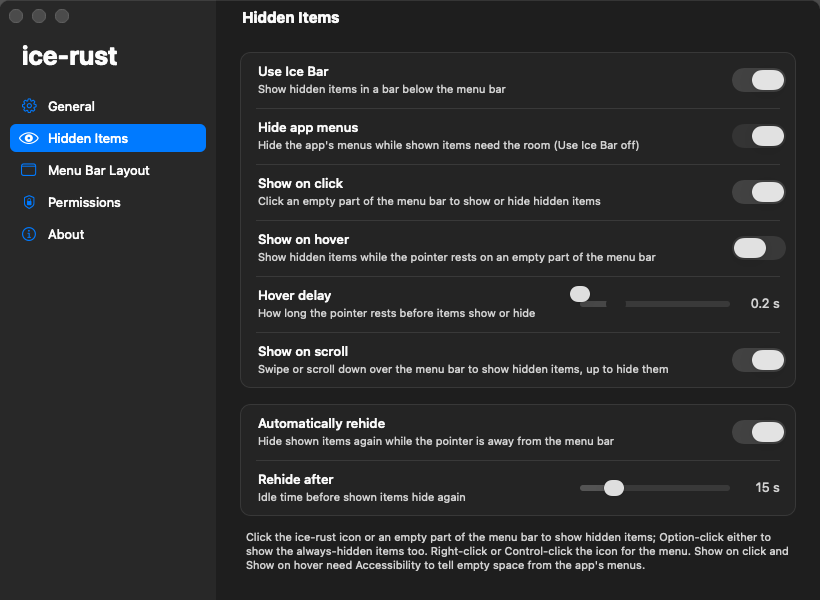
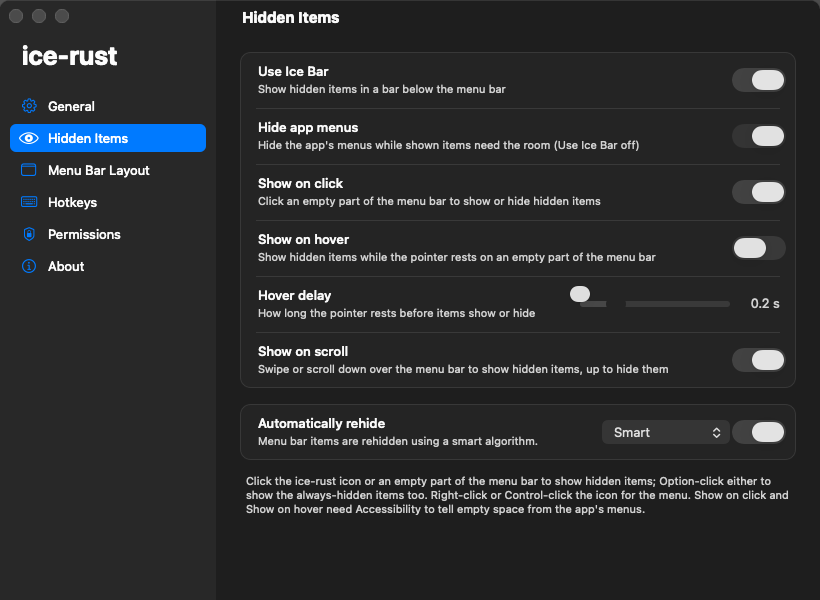
Describe smart and focused-app rehide in the README
List the three rehide strategies, mark the feature as done in the Ice
comparison, drop it from the roadmap, and note the changes from Ice. Redraw
the Hidden Items screenshot with the Strategy picker. Also correct the
Differences section, which still said ice-rust has no global hotkeys.

Changed region(s): [[0.3049, 0.78, 0.9756, 0.96], [0.3049, 0.69, 0.7927, 0.75], [0.0305, 0.33, 0.1524, 0.45]]

diff --git a/README.md b/README.md
@@ -35,9 +35,12 @@ What comes from Ice:
 - The UI design and its text, including the Menu Bar Layout page, its section
   names and its tip, and the name "Ice Bar".
 - The macOS mechanisms, constants and settings keys (`UseIceBar`,
-  `AutoRehide`, `RehideInterval`), worked out from Ice's source code and the
-  installed Ice app, as recorded in
+  `AutoRehide`, `RehideStrategy`, `RehideInterval`), worked out from Ice's
+  source code and the installed Ice app, as recorded in
   [docs/ice-internals-evidence.md](docs/ice-internals-evidence.md).
+  Smart and focused-app rehide were rebuilt from a written spec,
+  [docs/clean-room/smart-rehide/SPEC.md](docs/clean-room/smart-rehide/SPEC.md),
+  without reading Ice's code for them.
 
 What is new: the code. ice-rust is written in Rust against AppKit through the
 objc2 crates, rebuilt from that analysis rather than translated line by line
@@ -77,9 +80,15 @@ it (see [Differences from Ice](#differences-from-ice)).
   Menu Bar Layout page where you drag items between the Visible, Hidden and
   Always-Hidden bars to move the real items, a Hotkeys page, a Permissions
   page and an About page.
-- **Auto-rehide.** A revealed section hides again after an idle interval
-  (15 s by default, 5 to 60 s in Settings) while the pointer is outside the
-  menu bar and no menu or panel is open.
+- **Auto-rehide.** Shown items hide again under one of three strategies,
+  as in Ice. Smart, the default for new installs, hides them 250 ms after a
+  click outside the menu bar lands on a window of the active app or on the
+  Dock, or moves you to another Space. Timed hides them after an idle
+  interval (15 s by default, 5 to 60 s) while the pointer is outside the
+  menu bar and no menu or panel is open. Focused app hides them when you
+  switch apps. Installs that already stored auto-rehide settings keep Timed.
+  Smart and Focused app pass their spec tests but have not been tried on a
+  live menu bar yet.
 - **Icon styles.** Choose the icon on the General page: the ice-rust logo
   (the default), Dot, Ellipsis, Ellipsis Circle, Chevron, Arrow, Eye, Door,
   Sunglasses, Snowflake, Grid, Star, or an image file of your own. Each built-in style
@@ -108,7 +117,7 @@ of this repository.
 | Show hidden items when hovering over the menu bar | Yes | Yes | Off by default, delay 0 to 1 s. Hides again on leaving only items that hovering showed. Needs Accessibility. |
 | Show hidden items when an empty area in the menu bar is clicked | Yes | Yes | Option-click shows the always-hidden items. Needs Accessibility. |
 | Show hidden items by scrolling or swiping in the menu bar | Yes | Yes | Down or right shows, up or left hides, the same way with natural scrolling on or off. |
-| Automatically rehide menu bar items | Yes | Partial | Timed only (5 to 60 s), held while a menu or panel is open. Ice also has smart and focused-app strategies. |
+| Automatically rehide menu bar items | Yes | Yes | Smart, Timed (5 to 60 s, held while a menu or panel is open) and Focused app. Smart finds the clicked window without titles, so it needs no Screen Recording. |
 | Hide application menus when they overlap with shown items | Yes | Yes | "Hide app menus" on the Hidden Items page, on by default, for Use Ice Bar off. Needs Accessibility. |
 | Drag and drop interface to arrange individual items | Yes | Yes | Moves on-screen items only: the sections involved are revealed first. |
 | Display hidden items in a separate bar (Ice Bar) | Yes | Yes | Clicking an image reveals the whole section, then clicks the real item. |
@@ -172,7 +181,6 @@ need no permission.
 
 Planned, in rough priority order. Nothing here is implemented yet.
 
-- [ ] Smart and focused-app rehide strategies
 - [ ] Horizontal scrolling in the Ice Bar instead of the "+N" tile
 - [ ] Search menu bar items
 
@@ -190,7 +198,8 @@ Planned, in rough priority order. Nothing here is implemented yet.
 The General page shows the ice-rust Logo icon. The Hidden Items page shows
 the defaults: Use Ice Bar on, Hide app menus on (it acts with Use Ice Bar
 off), Show on click on, Show on hover off with a 0.2 s delay, Show on
-scroll on, Automatically rehide on, rehide after 15 s.
+scroll on, Automatically rehide on with the Smart strategy (the interval
+slider shows only for Timed).
 The offscreen render draws the track of a switch that is on in gray; the
 knob at the right marks it on. It also draws the knob of a disabled slider
 at the left end.
@@ -361,9 +370,14 @@ and runtime observations.
 
 ## Differences from Ice
 
-- ice-rust has no global hotkeys, search, menu bar appearance settings, or
-  Ice's smart and focused-app rehide strategies. Its Settings window has no
-  Hotkeys, Appearance or Updates pages.
+- ice-rust has no search or menu bar appearance settings. Its Settings
+  window has no Appearance or Updates page; the update settings are on the
+  General page.
+- Smart rehide finds the clicked window by its layer, not its title, so it
+  works without Screen Recording, and a click inside an open menu does not
+  rehide. Focused app needs "Automatically rehide" on, and does not count
+  ice-rust activating itself to hide app menus as an app switch. Part B of
+  [SPEC.md](docs/clean-room/smart-rehide/SPEC.md) lists every change from Ice.
 - Discovery uses only the public window list and window geometry. Ice uses
   private CoreGraphics calls for the menu bar window list, spaces and the
   active menu bar display, and an XPC helper with Accessibility to find the

diff --git a/docs/technical.md b/docs/technical.md
@@ -485,6 +485,7 @@ The README screenshots were made this way:
 cargo build --release
 ./target/release/ice-rust render-settings --page about --out docs/images/about.png
 ./target/release/ice-rust render-settings --page general --default-settings --out docs/images/general.png
+./target/release/ice-rust render-settings --page hidden-items --default-settings --out docs/images/hidden-items.png
 ```
 
 ## Show on click, hover and scroll (v1.5)
